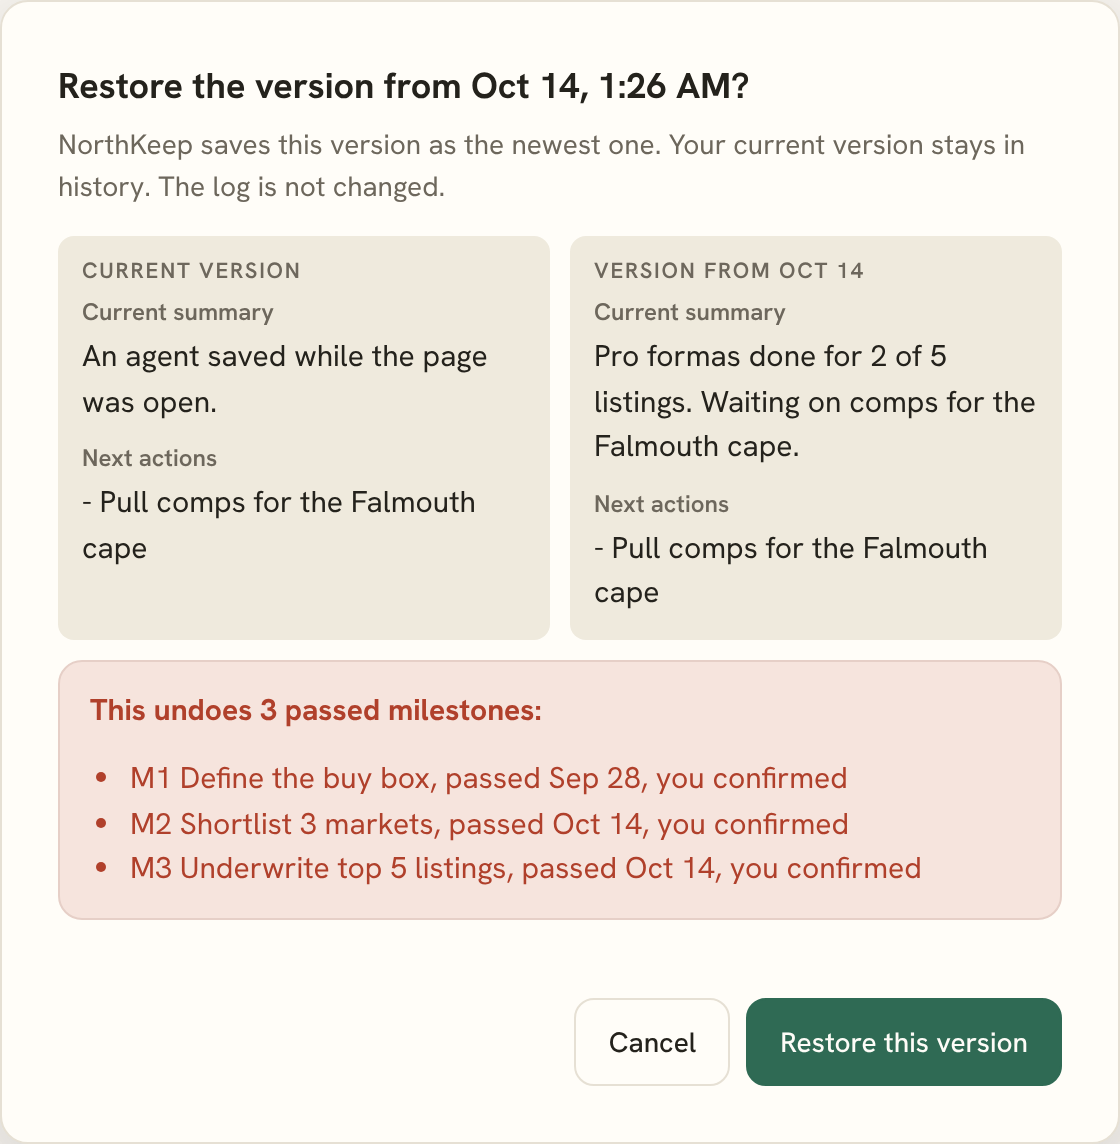
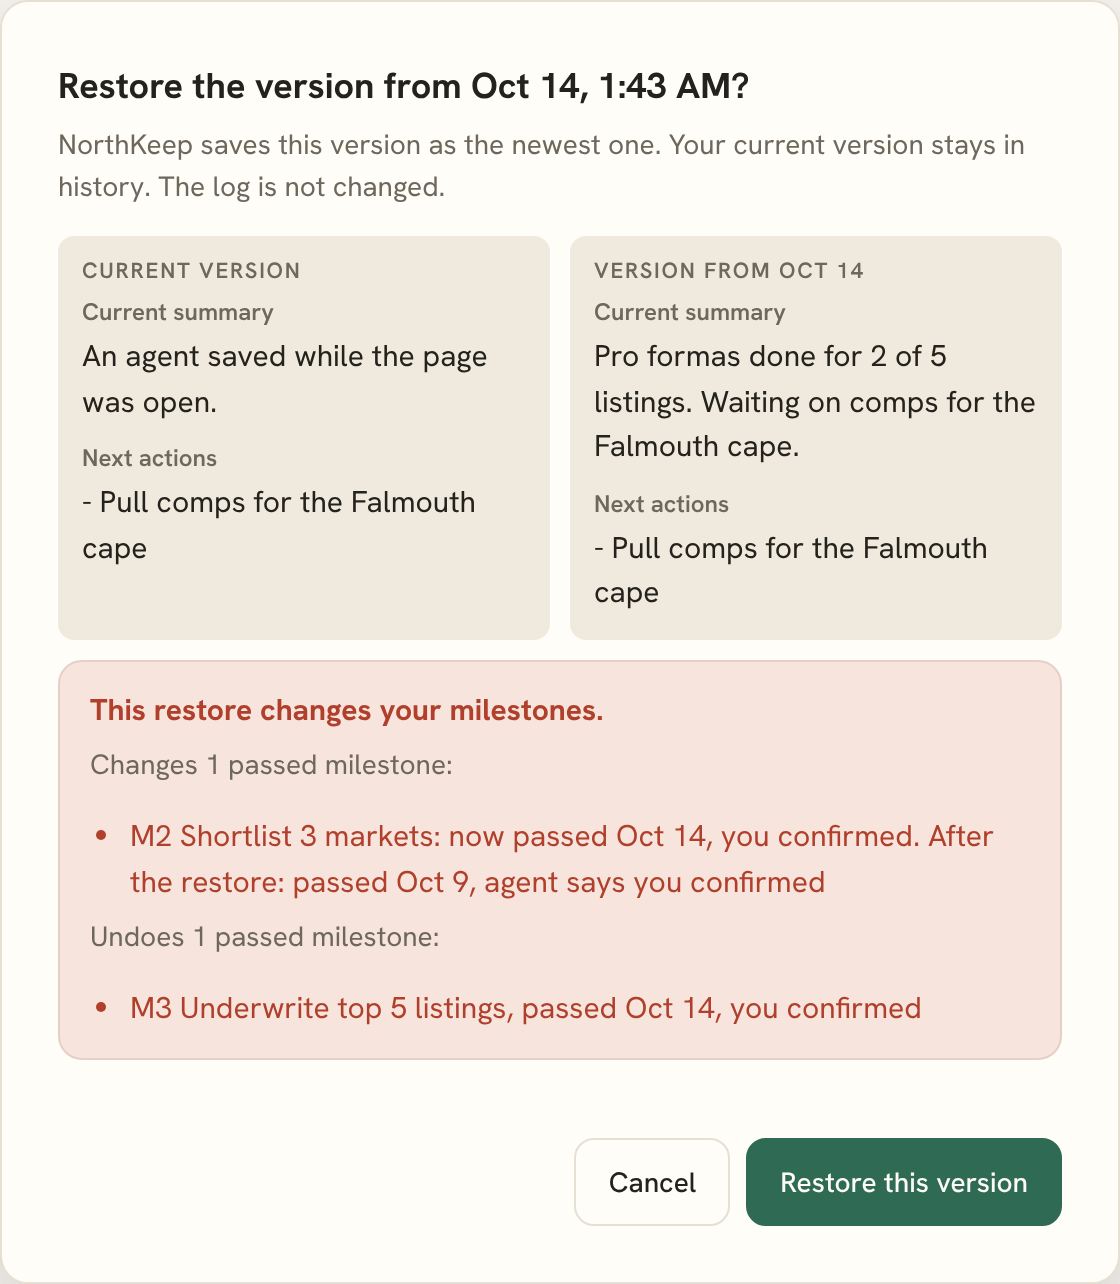
Record the K2 code review and update the K2 acceptance steps
Adds the K2 code review record (W1 to W3 with their commits), the new
restore warning text in steps 6 and 7, the re-run, and the retaken
restore screenshots.

Claude-Session: https://claude.ai/code/session_01Th6MpgHMR95mHE9t3YNppM

Changed region(s): [[0.0312, 0.0612, 0.9688, 0.826], [0.6562, 0.8566, 0.9688, 0.979], [0.5312, 0.8872, 0.625, 0.9484]]

diff --git a/docs/design/project-milestones.md b/docs/design/project-milestones.md
@@ -108,7 +108,7 @@ A duplicate `## Milestones` therefore cannot be written by NorthKeep. A document
 | Hosted `memory_forget` of a project document (K4) | Nothing | Always refused at the connector, the same as local |
 | Down-sync on the Mac (`packages/sync/src/connector-client.ts`) | Fast-forwards that keep the passes | See the paragraph below |
 | Desktop app Mark passed and Confirm | `confirmPass`, with `expected_revision` | Stale page refuses with `stale_project` |
-| Desktop app restore of an earlier revision (`apps/web/src/projectsApi.ts:119`) | Owner action. It may undo a pass. The confirm names each pass it would undo. | |
+| Desktop app restore of an earlier revision (`apps/web/src/projectsApi.ts:198`) | Owner action. It may add, change or undo a pass. The confirm names each pass it would add, change or undo. | |
 | Desktop raw edit and CLI `projects set` | Owner actions, unchanged | |
 | CLI `northkeep projects pass <slug> <id>` | `confirmPass` after a typed `yes` | stdin not a TTY. No `--yes` flag and no environment-variable bypass, unlike `getPassphrase` (`packages/cli/src/prompt.ts`) |
 | Phone milestone view | Display only | Every milestone write. The phone's existing memory screen can edit or forget any row, including a project document. Those are owner actions and pass `'owner'`. |
@@ -323,3 +323,13 @@ This was the fourth round of pattern fixes for one premise: W1 and W3 in the cor
 - **Structural fix, in K1.** A line followed by a `=` or `-` underline now counts as a heading, so an added setext heading that folds to Milestones is refused like the ATX lookalikes. An added line outside the section with a checkbox shape and a milestone id is refused too, which covers the bare `- [x] M2` and the `✅ M2` lines. No general prose matching was added: the Log entry above is still accepted.
 - **Claim narrowed instead of chasing phrasings.** The record is what NorthKeep enforces, so the claim now says an AI app cannot *record* a milestone as confirmed by you, names the views that show that record, and a new limit says prose elsewhere can still claim a pass.
 - **Forgets name their passes.** The K1 forget residual now has `planDownSync` list the passed milestones of each project document a cloud forget would remove, and `share sync` and the Mac app's Sync now review print them.
+
+### K2 code review, 2026-10-14: CLEARED WITH WOUNDS
+
+A separate Claude agent reviewed the K2 desktop code against this ADR, running each attack against the app server.
+
+- **W1.** The repair save checked only the milestone ids Jay reviewed, so a save with the same id but a different pass line (another title, a 1999 date) was written as a `(you)` pass. The check step now returns each pass's exact line, the page sends those lines back, and the route refuses unless they match the lines being saved. Test dfc8849, fix 93e5cea.
+- **W2.** The restore warning named only passes a restore would undo, not passes it would add or change, so restoring a version with a `(you)` pass over one where that milestone was open gave no warning. The project read now returns, per saved version, the passes a restore would add, change and undo, and whether that version's section is unreadable. The dialog lists each group in plain words. Test 9cc847c, fix 3b30db4 and c494e06.
+- **W3.** While a save was in flight, the disabled button dropped focus to the page body, Tab reached the page behind, and Escape stopped working. The page behind is now inert while the dialog is open, and the Tab and Escape handler listens on the document. Test 4ba64d1, fix 31461ea.
+
+What held: Mark passed and Confirm stamp `(you)` only through `confirmPass` bound to the revision read, a stale page writes nothing, and repair refuses a readable section and a heading inside the text.

diff --git a/docs/milestones-k2-acceptance.md b/docs/milestones-k2-acceptance.md
@@ -46,11 +46,13 @@ Back in the app, without reloading, click **Mark passed** on M4, then **Yes, it 
 
 ## 6. Restore warning
 
-Open **Session history**, then **Restore this version** on the oldest version. The box says "This undoes 2 passed milestones" and names M2 and M3. Click **Cancel**.
+Open **Session history**, then **Restore this version** on the oldest version. The box says "This restore changes your milestones." Under "Changes 1 passed milestone" it names M2: now passed today, you confirmed, and after the restore passed Oct 5, agent says you confirmed. Under "Undoes 1 passed milestone" it names M3. Click **Cancel**.
 
 ## 7. Repair
 
 Open **K2 repair project**. The block says NorthKeep cannot read the section. Click **Repair milestones**. The M1 line is highlighted as "Says passed". Change `(You)` to `(you)` and click **Check milestones**. It lists M1 as counting as passed. Click **Save repair**: the block reads "1 of 2 passed".
+
+Now open **Session history** and click **Restore this version** on the older version. The box says it undoes M1 Kickoff and that NorthKeep cannot read the Milestones section in that version. Click **Cancel**.
 
 ## 8. Clean up
 
@@ -74,6 +76,13 @@ Every check passed: "2 of 4 passed", Tab stayed in the box, "Not yet" changed no
 naming M2 and M3, and "1 of 2 passed" after the repair. The page reported no script errors.
 Screenshots at 390 px (light and dark, no sideways scroll) and 1280 px are in
 `docs/evidence/project-milestones-k2/`.
+
+After the K2 code review fixes, on 2026-10-14, steps 1 to 7 were run again the same way on a
+fresh temporary `NORTHKEEP_HOME`, with the new step 6 and step 7 text. Every check passed. The
+run also held a Mark passed save open and pressed Tab five times (focus stayed in the box) and
+Escape (the box closed and the page worked again), and sent a repair save with a changed M1
+line straight to the app server (refused). `restore-warning-1280.png` was retaken and
+`restore-adds-1280.png` added.
 
 Not verified here, so it needs your Mac: that `northkeep ui` opens Safari or your default
 browser by itself, how the app looks in your browser with your fonts, and that keyboard
